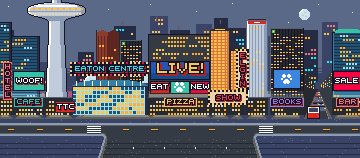
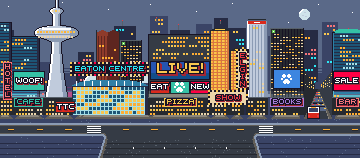
Narrow the CN Tower's main pod to 43 wide and lower it so the SkyPod and upper shaft show, with only the antenna running off the band's top, and flare the shaft from 9 columns under the pod to 29 at the street, widening faster toward its foot

Changed region(s): [[0.0611, 0.0, 0.2444, 0.557]]

diff --git a/art/tools/backdrops.py b/art/tools/backdrops.py
@@ -1733,43 +1733,54 @@ def beaches():
     return cv
 
 
-# The CN Tower's main pod, close up: each row's half-width from its top, a cap over a wide skirt of window
-# rings, then its underside narrowing into the shaft.
-CN_POD = (12, 18, 22, 25, 27, 28, 28, 28, 28, 28, 27, 25, 22, 18, 14, 11, 9, 8)
+# The CN Tower close up, each row's half-width from the top: the SkyPod, then the main pod, a cap over a skirt
+# of window rings, its underside narrowing into the shaft.
+CN_SKY_POD = (3, 5, 6, 6, 5, 4)
+CN_POD = (9, 14, 17, 19, 20, 21, 21, 21, 21, 20, 18, 15, 12, 9, 7, 5)
 
 
-def cn_tower(cv, cx, base, pod):
-    """The CN Tower at night, huge and close, the largest structure in the city, centred on column cx, in
-    an ink outline, lgrey lit white on its left and grey in shade on its right. Its main pod (CN_POD), 57
-    wide, has its top on row pod, near the band's top, its upper shaft running off the band's top above
-    it; a white cap, a ring of lit 2x2 windows gold and amber at its widest, a ring of cream ones under a
-    grey band, its underside in shade; then the shaft tapers out from 15 columns to 23 down to row base."""
-    rows = {y: 4 for y in range(0, pod)}
+def cn_tower(cv, cx, base, sky_pod, pod):
+    """The CN Tower at night, huge and close, the tallest structure in the city, centred on column cx, in an
+    ink outline, lgrey lit white on its left and grey in shade on its right: its antenna, 2 columns wide, runs
+    off the band's top down to the SkyPod (CN_SKY_POD) on row sky_pod, with its ring of lit 2x2 windows; a
+    7-column shaft on to the main pod (CN_POD), 43 wide, on row pod, a white cap, a ring of lit 2x2 windows
+    gold and amber at its widest, a ring of cream ones under a grey band, its underside in shade; then the
+    shaft flares from 9 columns under the pod to 29 at the street, widening faster toward its foot as the real
+    tower's three legs do, down to row base."""
+    rows = {y: 0 for y in range(0, sky_pod)}
+    for k, half in enumerate(CN_SKY_POD):
+        rows[sky_pod + k] = half
+    for y in range(sky_pod + len(CN_SKY_POD), pod):
+        rows[y] = 3
     for k, half in enumerate(CN_POD):
         rows[pod + k] = half
     low = pod + len(CN_POD)
     for y in range(low, base):
-        rows[y] = 7 + (y - low) * 4 // max(1, base - low)
-    inside = {(x, y) for y, half in rows.items() for x in range(cx - half, cx + half + 1)}
+        rows[y] = 4 + round(10 * ((y - low) / max(1, base - 1 - low)) ** 1.6)
+    inside = {(x, y) for y, half in rows.items() for x in range(cx - half, cx + max(half, 1) + 1)}
     for x, y in inside:
         for dx, dy in ((1, 0), (-1, 0), (0, 1), (0, -1)):
             if (x + dx, y + dy) not in inside and y + dy >= 0:
                 cv.fill(x + dx, y + dy, 1, 1, "ink")
     for y, half in rows.items():
-        cv.fill(cx - half, y, 2 * half + 1, 1, "lgrey")
-        cv.fill(cx - half, y, 2, 1, "white")
-        shade = min(4, half)
-        cv.fill(cx + half - shade + 1, y, shade, 1, "grey")
+        right = max(half, 1)
+        cv.fill(cx - half, y, half + right + 1, 1, "lgrey")
+        cv.fill(cx - half, y, 1 + (half > 2), 1, "white")
+        shade = max(1, min(right, right // 3 + 1))
+        cv.fill(cx + right - shade + 1, y, shade, 1, "grey")
+    # the SkyPod's window ring
+    for k, x in enumerate(range(cx - 4, cx + 5, 3)):
+        cv.fill(x, sky_pod + 2, 2, 2, ("cream", "gold")[k % 2])
     # the pod: a white cap, a ring of gold and amber windows at its widest, a grey band, a ring of cream
     # windows, the underside in shade
-    cv.fill(cx - 20, pod + 2, 41, 2, "white")
-    for k, x in enumerate(range(cx - 26, cx + 26, 3)):
+    cv.fill(cx - 14, pod + 2, 29, 2, "white")
+    for k, x in enumerate(range(cx - 19, cx + 19, 3)):
         cv.fill(x, pod + 5, 2, 2, ("gold", "amber")[k % 2])
-    cv.fill(cx - 28, pod + 8, 57, 1, "grey")
-    for x in range(cx - 25, cx + 25, 3):
+    cv.fill(cx - 21, pod + 8, 43, 1, "grey")
+    for x in range(cx - 18, cx + 18, 3):
         cv.fill(x, pod + 10, 2, 2, "cream")
-    for k, half in enumerate(CN_POD[13:]):
-        cv.fill(cx - half, pod + 13 + k, 2 * half + 1, 1, "grey")
+    for k, half in enumerate(CN_POD[12:]):
+        cv.fill(cx - half, pod + 12 + k, 2 * half + 1, 1, "grey")
 
 
 def mast(cv, cx, top, h):
@@ -2177,8 +2188,8 @@ def yonge():
         cv.fill(x, y, 1, 1, "white")
     full_moon(cv, 304, 14, 5)
     # downtown seen from far off, its towers stepping up toward the top third, the CN Tower huge and close
-    # over them all: its main pod near the band's top, the antenna and SkyPod cut off above, the shaft
-    # tapering down to the street. The message strip covers the band's top rows while a message shows, so
+    # over them all: its antenna running off the band's top over the SkyPod and the main pod, the shaft
+    # flaring down to the street. The message strip covers the band's top rows while a message shows, so
     # the screens and signs stay below row 57. Far back, dark towers in navy and dslate with runs of windows
     # lit, those either side of the tower's shaft kept low
     skyline(cv, ((-2, 16, 30, "navy"), (40, 14, 62, "dslate"), (78, 16, 52, "navy"), (114, 22, 26, "navy"),
@@ -2194,7 +2205,7 @@ def yonge():
     scotia(cv, 96, 24, 30)
     dominion(cv, 120, 22, 40, 5)
     glass_tower(cv, -4, 16, 22, 4)
-    cn_tower(cv, 56, BASE, 3)
+    cn_tower(cv, 56, BASE, 8, 26)
     # the nearer towers: dark glass on the left and up to the SkyDome's lower half; then, down to
     # the street, the Yonge-Dundas screens, the Royal Bank Plaza's gold pair, First Canadian Place, a TD
     # Centre tower and glass under a turquoise crown, the street's glow on their feet and most with neon

diff --git a/art/style-guide.md b/art/style-guide.md
@@ -326,7 +326,7 @@ Backdrops are 360×158 on screen rows 48 to 205 (`art/tools/backdrops.py`); band
 
 - Above the far side's front row the scenery goes back in depth, not taller. The debuff bars and the message strip lie over the band's top rows, so the sky above row 45 is one flat colour with no clouds, stars or scenery. Yonge Street is the exception: its skyline, moon and stars rise above row 45, under the bars' and the strip's opaque plates.
 - Darkness varies: The Beaches bright and open, the Distillery District at golden hour, High Park under a clear blue sky, Cabbagetown at dusk, Yonge Street an evening downtown and Kensington Market darkest, a Pedestrian Sunday at twilight.
-- The CN Tower is huge and close on Yonge Street's skyline, the largest structure in the city: its main pod, 57 wide with its lit window rings in 2px clusters, has its top on row 3, its upper shaft, SkyPod and antenna cut off above the band, and its shaft tapers down to the street in clear view. The other towers step up toward the top third below the pod, and those either side of its shaft stay low. The message strip covers band rows 6 to 57 while a message shows, so the screens and signs sit below row 57.
+- The CN Tower is huge and close on Yonge Street's skyline, the tallest structure in the city: its antenna runs off the band's top over the SkyPod and its window ring, the main pod, 43 wide with its lit window rings in 2px clusters, sits near the top, and the shaft flares from 9 columns under the pod to 29 at the street, widening faster toward its foot as the real tower's three legs do. The other towers step up toward the top third below the pod, and those either side of its shaft stay low. The message strip covers band rows 6 to 57 while a message shows, so the screens and signs sit below row 57.
 - Yonge Street's night is lit in big, clean shapes, never speckle: windows in 2×2 blocks lit in runs along each floor, the 2× LIVE! screen and its ad screens, a WOOF! screen on the glass tower at the left, 2px marquee bulbs (the EATON CENTRE sign, the ELGIN blade, the SHOW marquee), the street's glow a ramp step up the towers' feet, and each lit podium's light on the far sidewalk. It is seen from far off: building masses, lit window runs, screens and signs, with no doors, shopfronts, awnings or people; the Eaton Centre is one huge glass mall under its galleria vault, with no entrance.
 - Houses on the far side are slim, about as tall as they are wide, under a gable that rises about a row for each column it narrows, past 2px eaves. Light comes from the top left: the roof's left edge a ramp step lighter, the wall's right 3 columns a step darker. Trees, hedges and side yards fill the gaps, and the end houses run off the band's edges so the street carries on. Houses further back are smaller and show between the near roofs.
 - Kensington Market's laneway murals at the band's edges are painted a ramp step darker than `MURAL`, so they sit behind the shopfronts.
